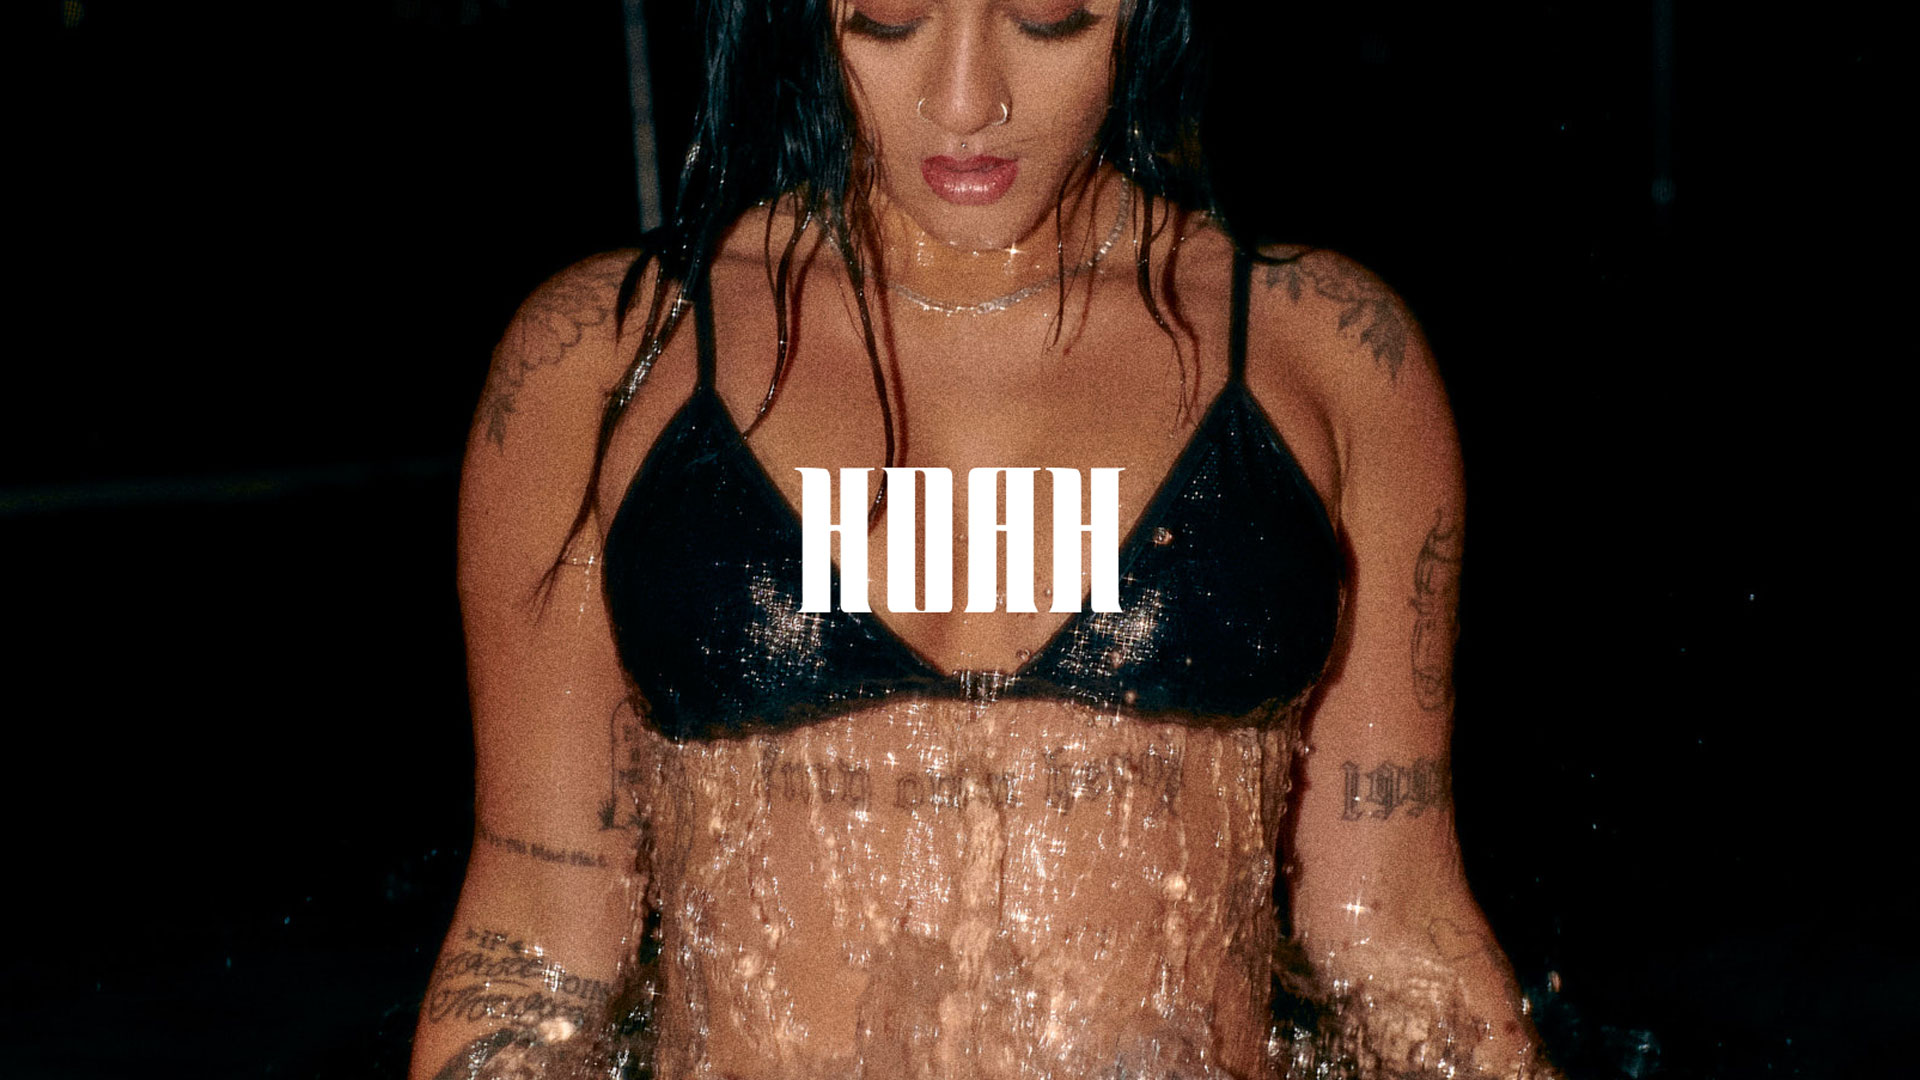
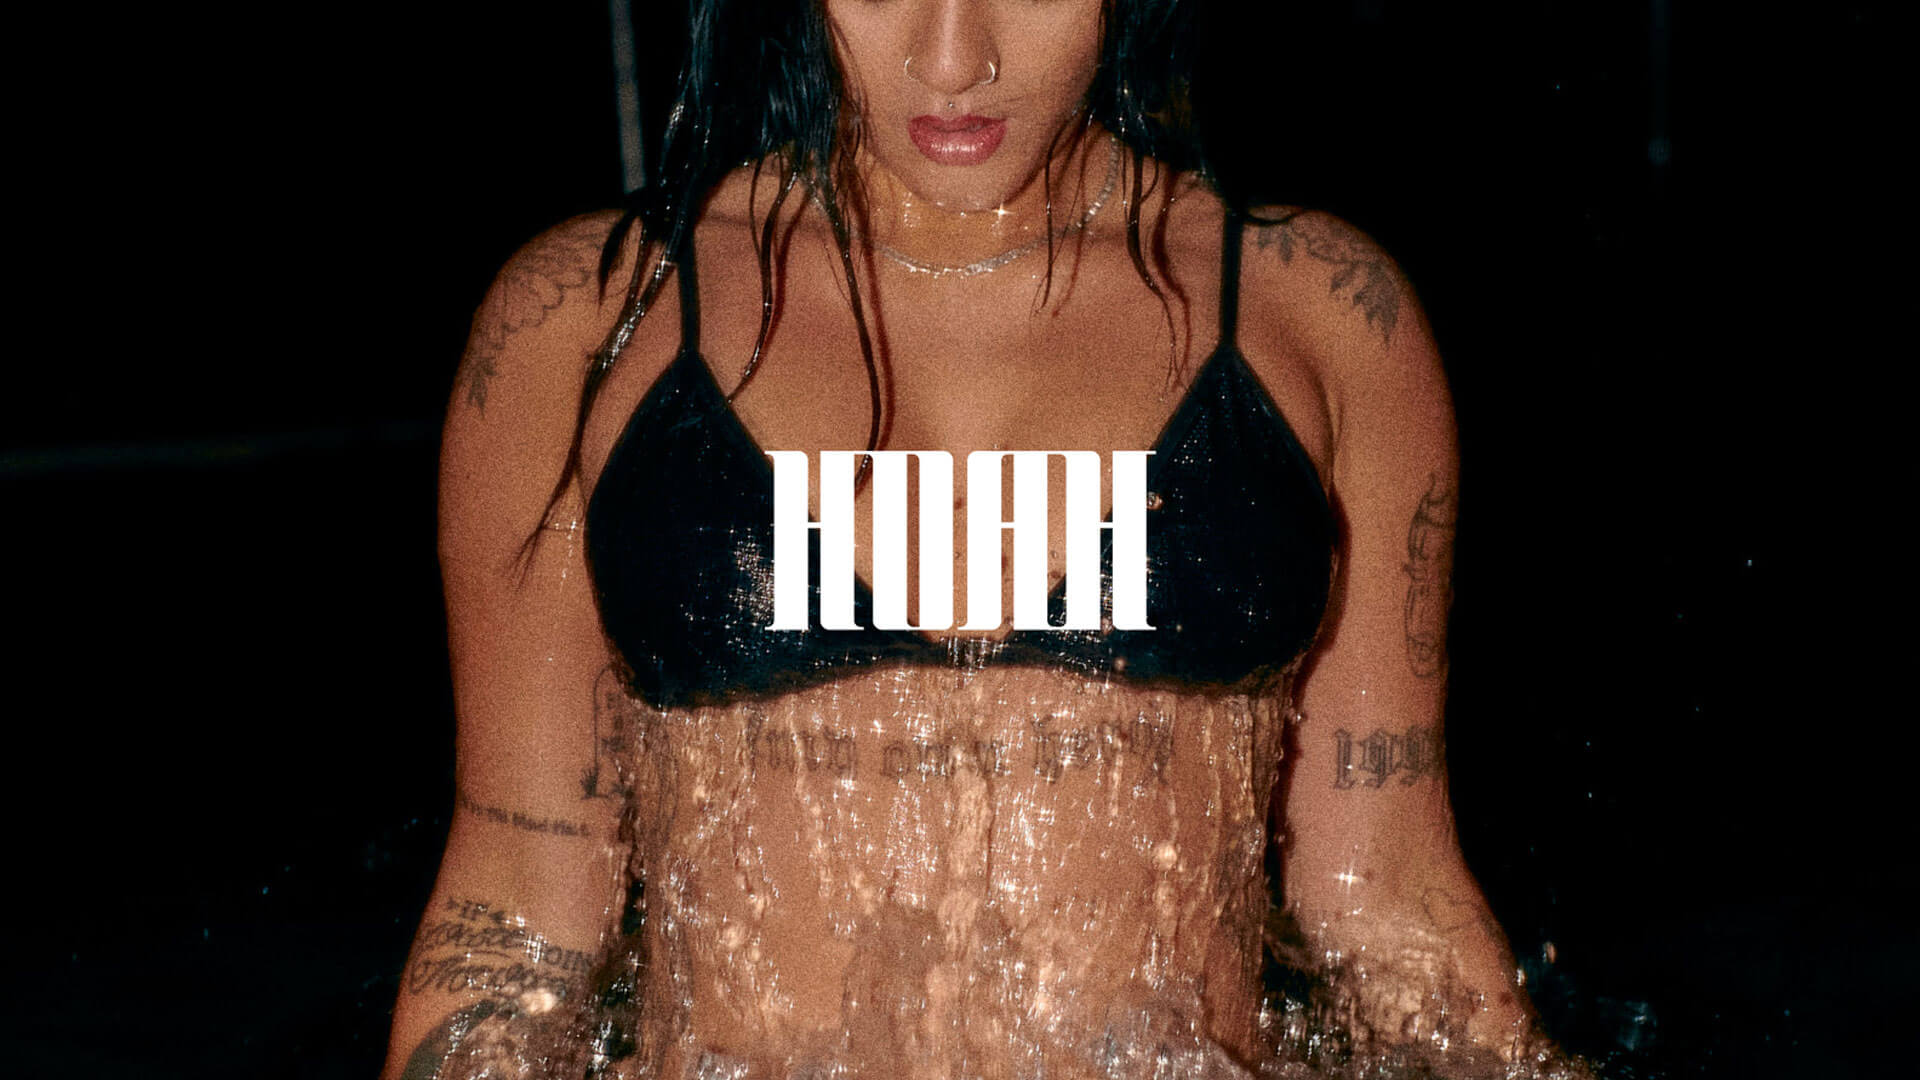
images updated

Changed region(s): [[0.1875, 0.0, 0.875, 1.0]]

diff --git a/index.html b/index.html
@@ -108,14 +108,14 @@
             padding: 25px 0 0;
         }
 
-        .hoah-logo img {
+        .hoah-logo svg {
             width: 100px;
             height: 50px;
             height: auto;
         }
 
         @media only screen and (min-width:750px) {
-            .hoah-logo img {
+            .hoah-logo svg {
                 width: 150px;
                 height: 75px;
             }
@@ -212,7 +212,11 @@
     <div class="hoah-body">
 
         <div class="hoah-logo">
-            <img src="./img/HOAH-LOGO.png" alt="HOAH Lingerie Logo">
+            <svg xmlns="http://www.w3.org/2000/svg" xml:space="preserve" style="enable-background:new 0 0 800 400"
+                viewBox="0 0 800 400">
+                <path
+                    d="M367 23.4H123.7v140.9H99.1V42.2c0-10.2-8.6-18.8-18.8-18.8h-67v5.9h5.4c7.5 0 13.4 5.9 13.4 12.9v316.2c0 7-5.9 12.9-13.4 12.9h-5.4v5.4H99v-201h24.7v182.8c0 10.2 8 18.2 18.2 18.2h67v-5.4h-5.4c-7.5 0-13.4-5.9-13.4-12.9V29.3H214.3c7.5 0 13.4 5.9 13.4 12.9v316.2c0 10.2 8.6 18.2 18.8 18.2H367c10.7 0 18.8-8 18.8-18.2V42.2c0-10.2-8-18.8-18.8-18.8zm-47.7 347.8h-11.8c-7 0-12.9-5.9-12.9-12.9v-329h11.3c7.5 0 13.4 5.9 13.4 12.9v329zM786.7 29.3v-5.9h-85.2v140.9h-24.7V42.2c0-10.2-8.6-18.8-18.8-18.8H433c-10.2 0-18.8 8.6-18.8 19.3v315.7c0 7-5.9 12.9-12.9 12.9h-5.9v5.4h67c10.2 0 18.8-8 18.8-18.2V175.6h24.7v201h170.9v-201h24.7v182.8c0 10.2 8 18.2 18.2 18.2h67v-5.4h-5.4c-7.5 0-13.4-5.9-13.4-12.9v-329h18.8zM505.8 164.4h-24.7V42.7c0-7.5 5.9-13.4 12.9-13.4h11.8v135.1zm104 194c0 7-5.9 12.9-13.4 12.9h-11.3c-7 0-12.9-5.9-12.9-12.9V29.3H596.4c7.5 0 13.4 5.9 13.4 12.9v316.2z" />
+            </svg>
         </div>
 
         <div class="hoah-content">
